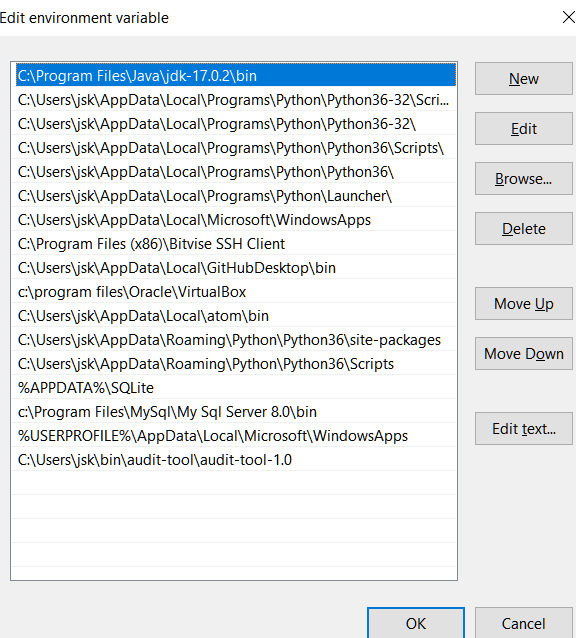
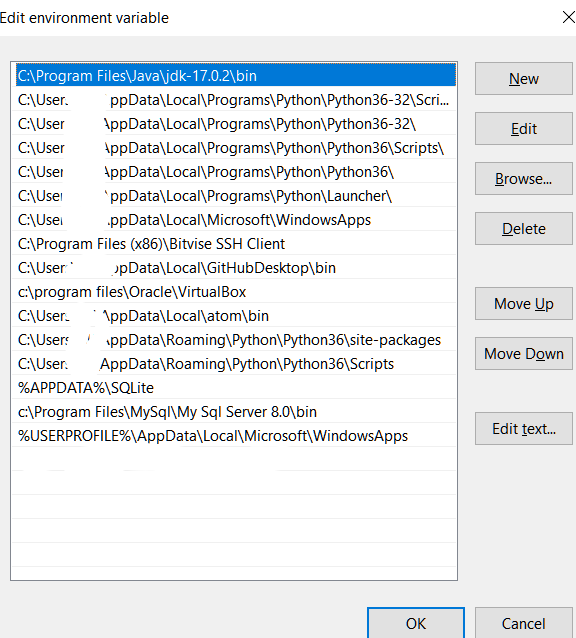
Add Windows environment setting

diff --git a/audittool/audit-test-shell/Install-1.0-alpha.md b/audittool/audit-test-shell/Install-1.0-alpha.md
@@ -57,6 +57,9 @@ You'll see each line. Add the line of the installation directory.
 
 You will see a table of your environment variables.
 
+Add the last line (the default installation is shown as an example)
+
+
 ## Configuration
 ### Sample Run
 
